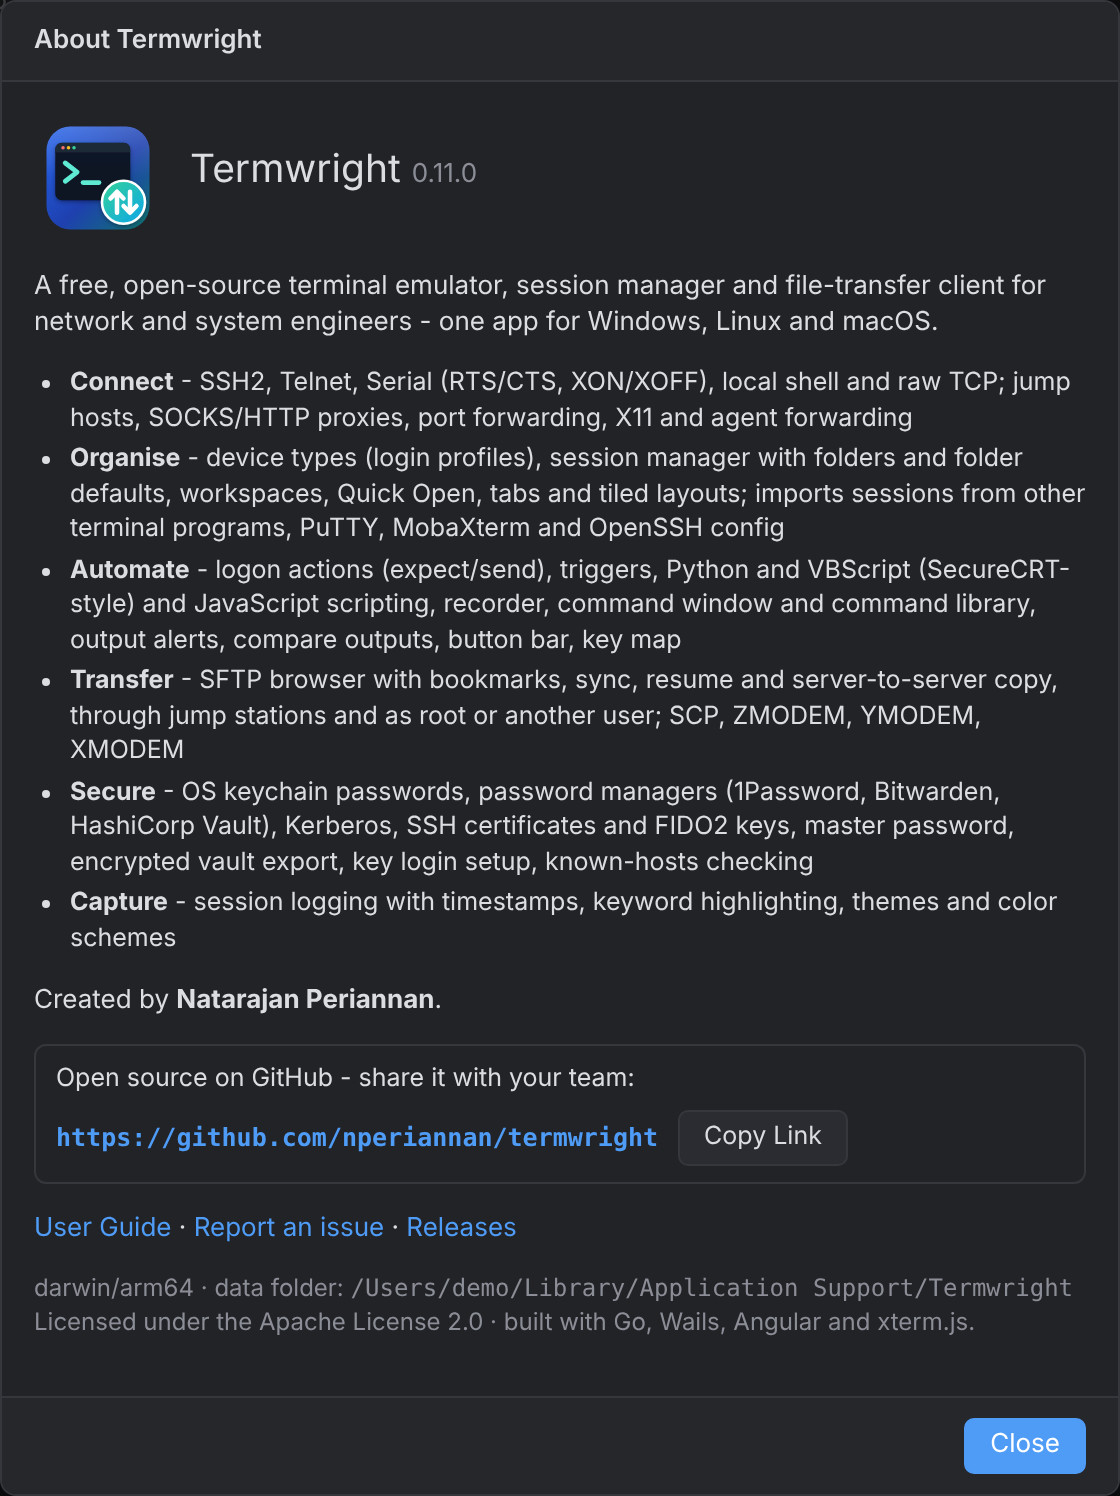
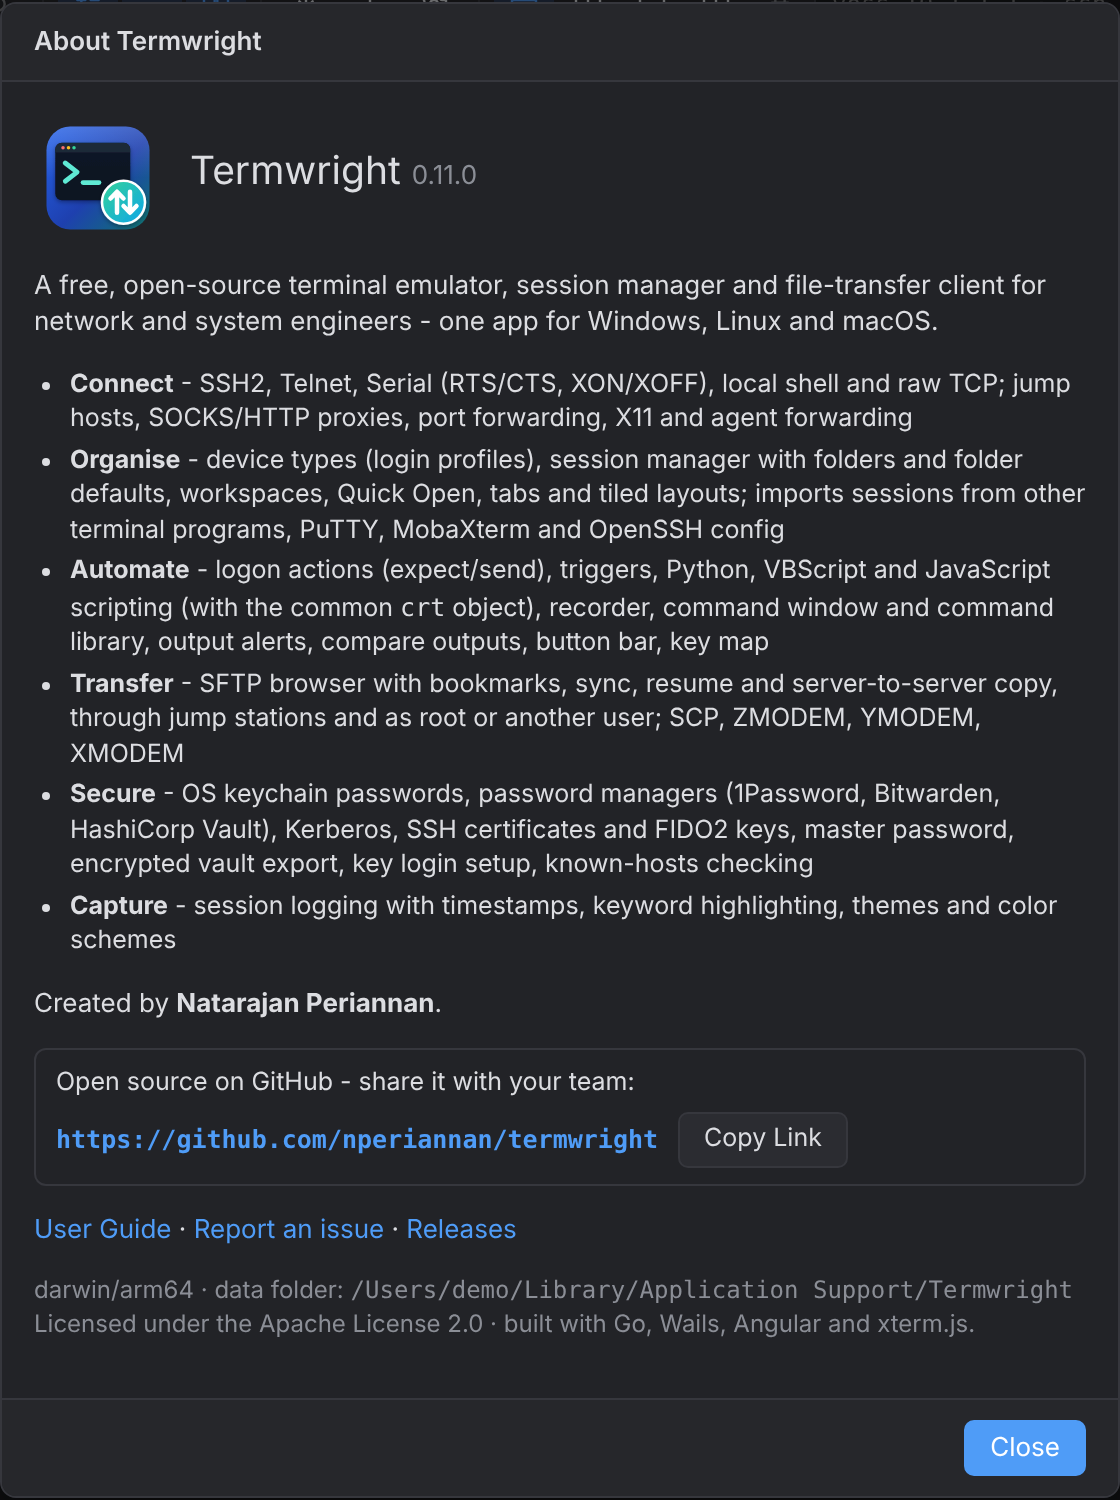
Neutral import wording
- Start page button "Import Sessions" (was named after one product);
  empty Session Manager links to "import sessions from another terminal
  program"
- About, Options hints and the README intro describe imports from
  several programs and inventories instead of one product
- Screenshots of the start page and About updated

diff --git a/frontend/src/app/dialogs/options-dialog.ts b/frontend/src/app/dialogs/options-dialog.ts
@@ -37,7 +37,7 @@ type Page = 'general' | 'terminal' | 'schemes' | 'keywords' | 'keymap' | 'button
                 <label>Sessions folder</label>
                 <div class="row"><input name="sd" [(ngModel)]="s.sessionsDir" /><button type="button" (click)="browse('sessionsDir')">Browse...</button></div>
                 <label></label>
-                <div class="hint">Sessions are stored as one .ini file per session in the SecureCRT-compatible layout.
+                <div class="hint">Sessions are stored as one .ini file per session, in the layout other terminal programs use too.
                   You can point this at an existing "Config/Sessions" folder to share sessions (back it up first).</div>
                 <label>Logs folder</label>
                 <div class="row"><input name="ld" [(ngModel)]="s.logDir" /><button type="button" (click)="browse('logDir')">Browse...</button></div>
@@ -52,7 +52,7 @@ type Page = 'general' | 'terminal' | 'schemes' | 'keywords' | 'keymap' | 'button
                 <label>Python interpreter</label>
                 <input name="py" [(ngModel)]="s.pythonPath" placeholder="(automatic: python3, or py -3 on Windows)" />
                 <label></label>
-                <div class="hint">Used to run SecureCRT-style Python (.py) scripts. Python 3 must be installed.</div>
+                <div class="hint">Used to run Python (.py) scripts with the <code>crt</code> object. Python 3 must be installed.</div>
                 <label></label><div class="hint">Files received with ZMODEM (remote "sz") are saved here.</div>
                 <label>UI theme</label>
                 <select name="theme" [(ngModel)]="s.theme">

diff --git a/frontend/src/app/dialogs/overlays.ts b/frontend/src/app/dialogs/overlays.ts
@@ -87,7 +87,7 @@ export class Overlays {
           <ul class="features">
             <li><b>Connect</b> - SSH2, Telnet, Serial (RTS/CTS, XON/XOFF), local shell and raw TCP; jump hosts, SOCKS/HTTP proxies, port forwarding, X11 and agent forwarding</li>
             <li><b>Organise</b> - device types (login profiles), session manager with folders and folder defaults, workspaces, Quick Open, tabs and tiled layouts; imports sessions from other terminal programs, PuTTY, MobaXterm and OpenSSH config</li>
-            <li><b>Automate</b> - logon actions (expect/send), triggers, Python and VBScript (SecureCRT-style) and JavaScript scripting, recorder, command window and command library, output alerts, compare outputs, button bar, key map</li>
+            <li><b>Automate</b> - logon actions (expect/send), triggers, Python, VBScript and JavaScript scripting (with the common <code>crt</code> object), recorder, command window and command library, output alerts, compare outputs, button bar, key map</li>
             <li><b>Transfer</b> - SFTP browser with bookmarks, sync, resume and server-to-server copy, through jump stations and as root or another user; SCP, ZMODEM, YMODEM, XMODEM</li>
             <li><b>Secure</b> - OS keychain passwords, password managers (1Password, Bitwarden, HashiCorp Vault), Kerberos, SSH certificates and FIDO2 keys, master password, encrypted vault export, key login setup, known-hosts checking</li>
             <li><b>Capture</b> - session logging with timestamps, keyword highlighting, themes and color schemes</li>

diff --git a/frontend/src/app/app.html b/frontend/src/app/app.html
@@ -100,7 +100,7 @@
             <button class="primary" (click)="action('quick-connect')">Quick Connect</button>
             <button (click)="ui.newSession(ui.currentFolder())">New Session</button>
             <button (click)="action('local-shell')">Local Shell</button>
-            <button (click)="action('import')">Import SecureCRT Sessions</button>
+            <button (click)="action('import')">Import Sessions</button>
           </div>
           @if (recent().length) {
             <h3>Recent sessions</h3>

diff --git a/frontend/src/app/components/session-tree.ts b/frontend/src/app/components/session-tree.ts
@@ -49,7 +49,7 @@ const EXPANDED_KEY = 'termwright.expanded';
             <div class="empty">
               No sessions yet.<br />
               <a (click)="ui.newSession('')">Create a session</a> or
-              <a (click)="ui.open('import')">import from SecureCRT</a>.
+              <a (click)="ui.open('import')">import sessions from another terminal program</a>.
             </div>
           }
         }

diff --git a/CHANGELOG.md b/CHANGELOG.md
@@ -11,6 +11,7 @@ All notable changes to Termwright. Each release on GitHub shows its section of t
 * **Text is kept exactly as typed**: macOS no longer capitalises the first letter (e.g. user name `rwa` became `Rwa`), corrects spelling or replaces quotes and dashes in any field - user names, passwords, prompts, commands.
 * Release notes: every release and nightly build now lists its changes and commits ([CHANGELOG.md](CHANGELOG.md)).
 * Build: more reliable nightly publishing; Linux build packages are kept in the build cache, so a slow Ubuntu mirror no longer breaks the Linux build.
+* Neutral wording: the start page says **Import Sessions** (sessions can come from several terminal programs and inventories); README, About and Options no longer single out one product.
 * `scripts/watch-build.sh [tag]` follows a GitHub build from the terminal: every job, its current step and time (GitHub CLI if installed, otherwise the public API).
 
 ## 0.12.1 (2026-10-26)

diff --git a/README.md b/README.md
@@ -6,8 +6,8 @@
 It's a desktop app (not a web app), built from scratch in **Go** (backend) and **Angular + xterm.js** (UI) and packaged into a
 **single native binary** with [Wails](https://wails.io).
 
-It reads and writes the **SecureCRT® session file format**, so you can import an existing session library
-(SecureCRT 9.x and older) and export back to it.
+It **imports your existing sessions** from other terminal programs (SecureCRT, PuTTY/KiTTY, MobaXterm, OpenSSH config) and
+from inventories (CSV, Ansible, NetBox, AWS), and can export them again in the same session file and XML formats.
 
 ![Termwright](docs/screenshots/main.png)
 
